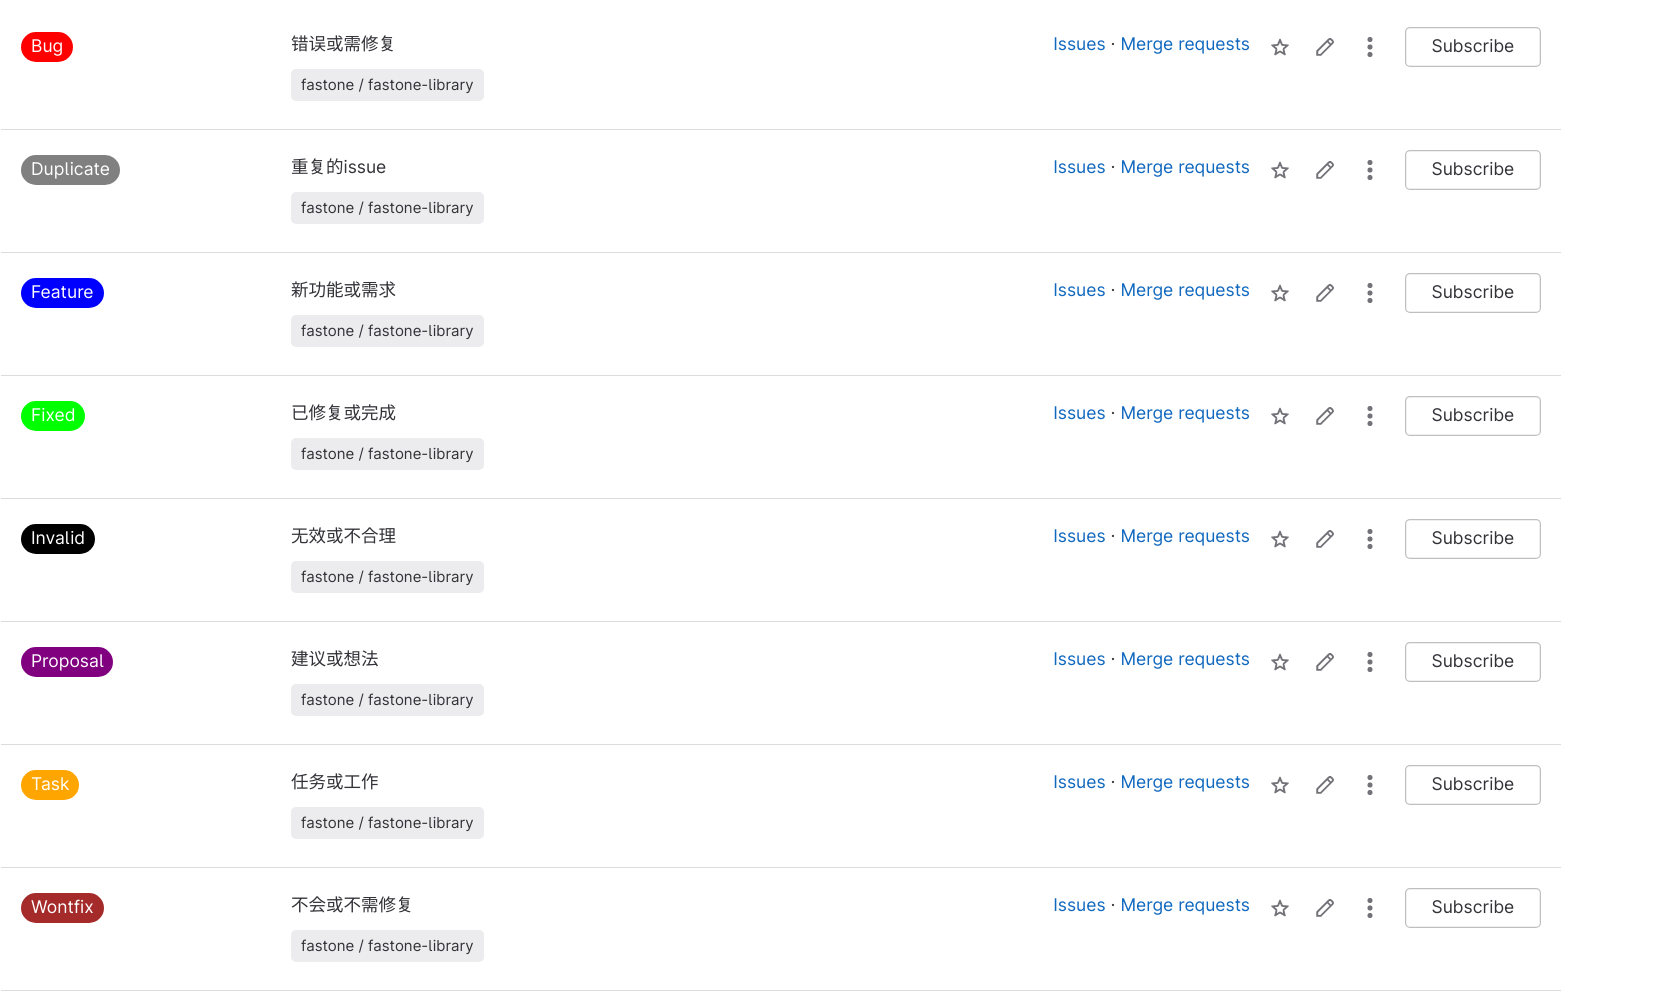
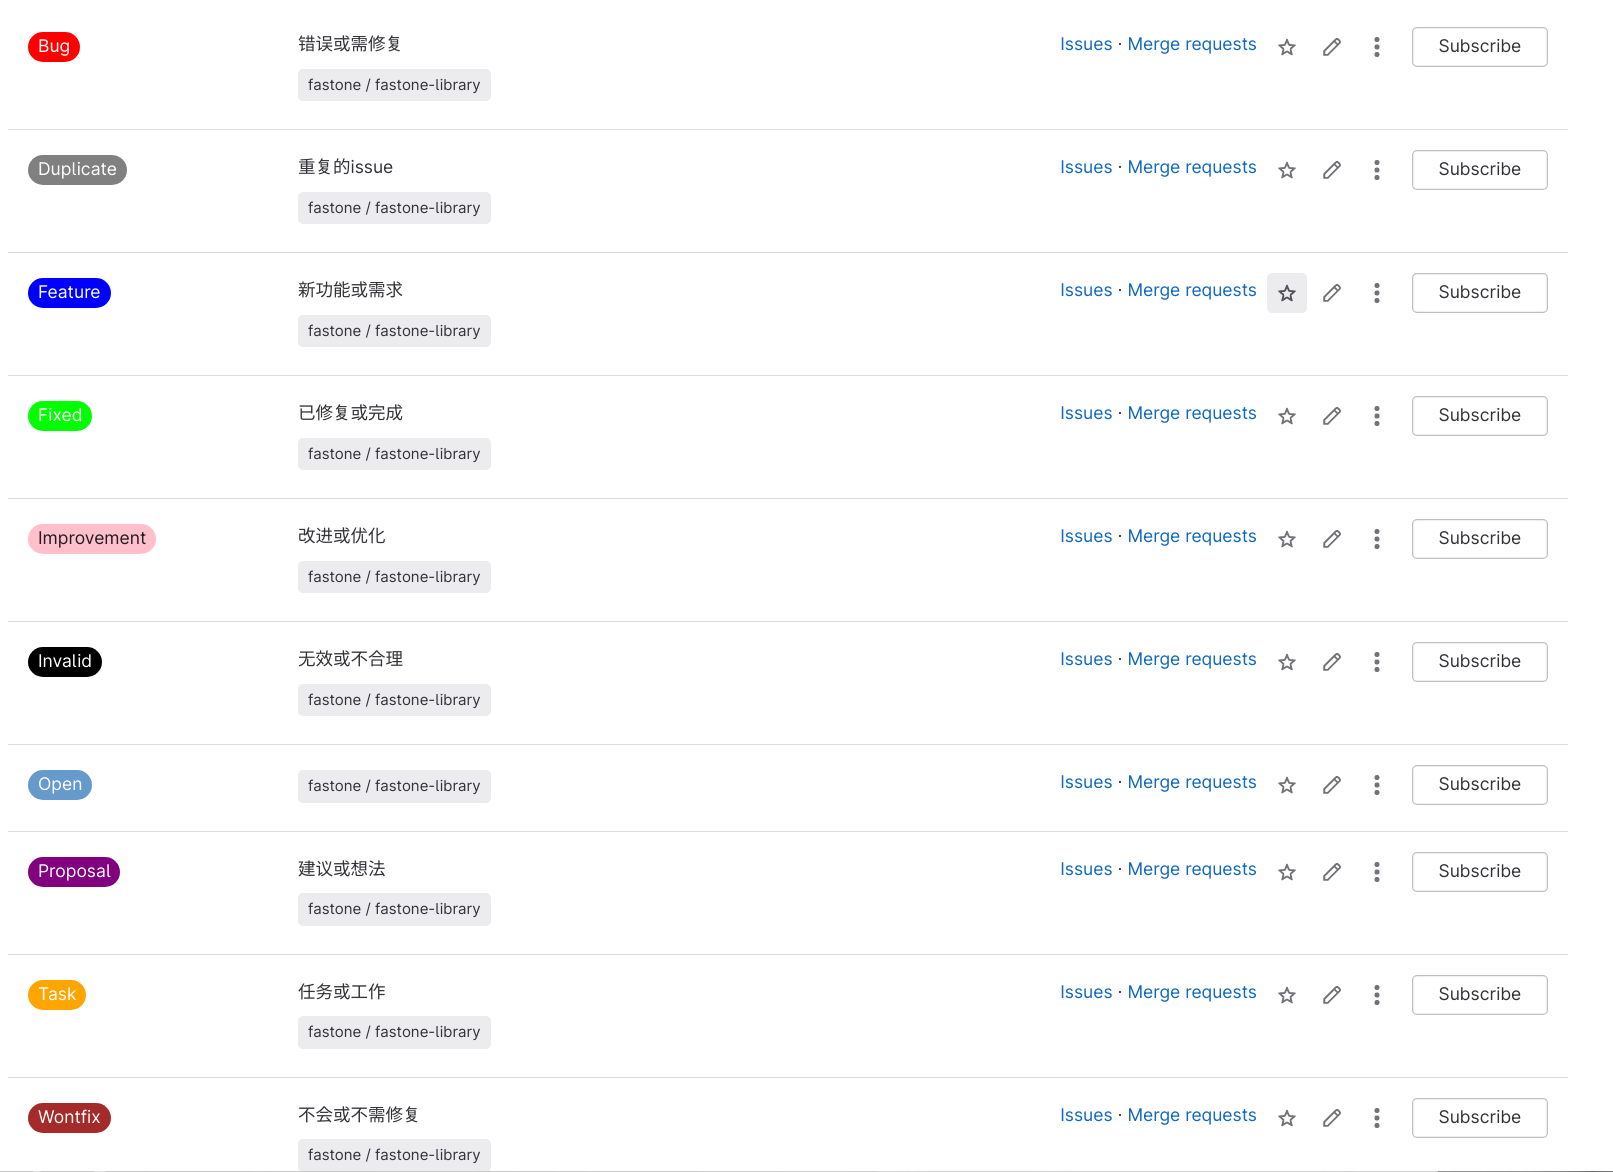
update

diff --git a/blog/2023-03-31/gitlab-labels.md b/blog/2023-03-31/gitlab-labels.md
@@ -15,16 +15,17 @@ Gitlab中的标签是一个非常有用的功能, 该功能可以帮助我们更
 
 下面介绍常见的一些标签的定义, 以便我们更好的使用.
 
-| 名称        | 颜色 | 16进制代码  | 描述       |
-|-----------|----|---------|----------|
-| Bug       | 红色 | #FF0000 | 错误或需修复   |
-| Duplicate | 灰色 | #808080 | 重复的issue |
-| Feature   | 蓝色 | #0000FF | 新功能或需求   |
-| Fixed     | 绿色 | #00FF00 | 已修复或完成   |
-| Invalid   | 黑色 | #000000 | 无效或不合理   |
-| Proposal  | 紫色 | #800080 | 建议或想法    |
-| Task      | 橙色 | #FFA500 | 任务或工作    |
-| Wontfix   | 棕色 | #A52A2A | 不会或不需修复  |
+| 名称          | 颜色 | 16进制代码  | 描述       |
+|-------------|----|---------|----------|
+| Bug         | 红色 | #FF0000 | 错误或需修复   |
+| Duplicate   | 灰色 | #808080 | 重复的issue |
+| Feature     | 蓝色 | #0000FF | 新功能或需求   |
+| Fixed       | 绿色 | #00FF00 | 已修复或完成   |
+| Invalid     | 黑色 | #000000 | 无效或不合理   |
+| Proposal    | 紫色 | #800080 | 建议或想法    |
+| Task        | 橙色 | #FFA500 | 任务或工作    |
+| Wontfix     | 棕色 | #A52A2A | 不会或不需修复  |
+| Improvement | 粉色 | #FFC0CB | 改进或优化    |
 
 效果如下:
 
